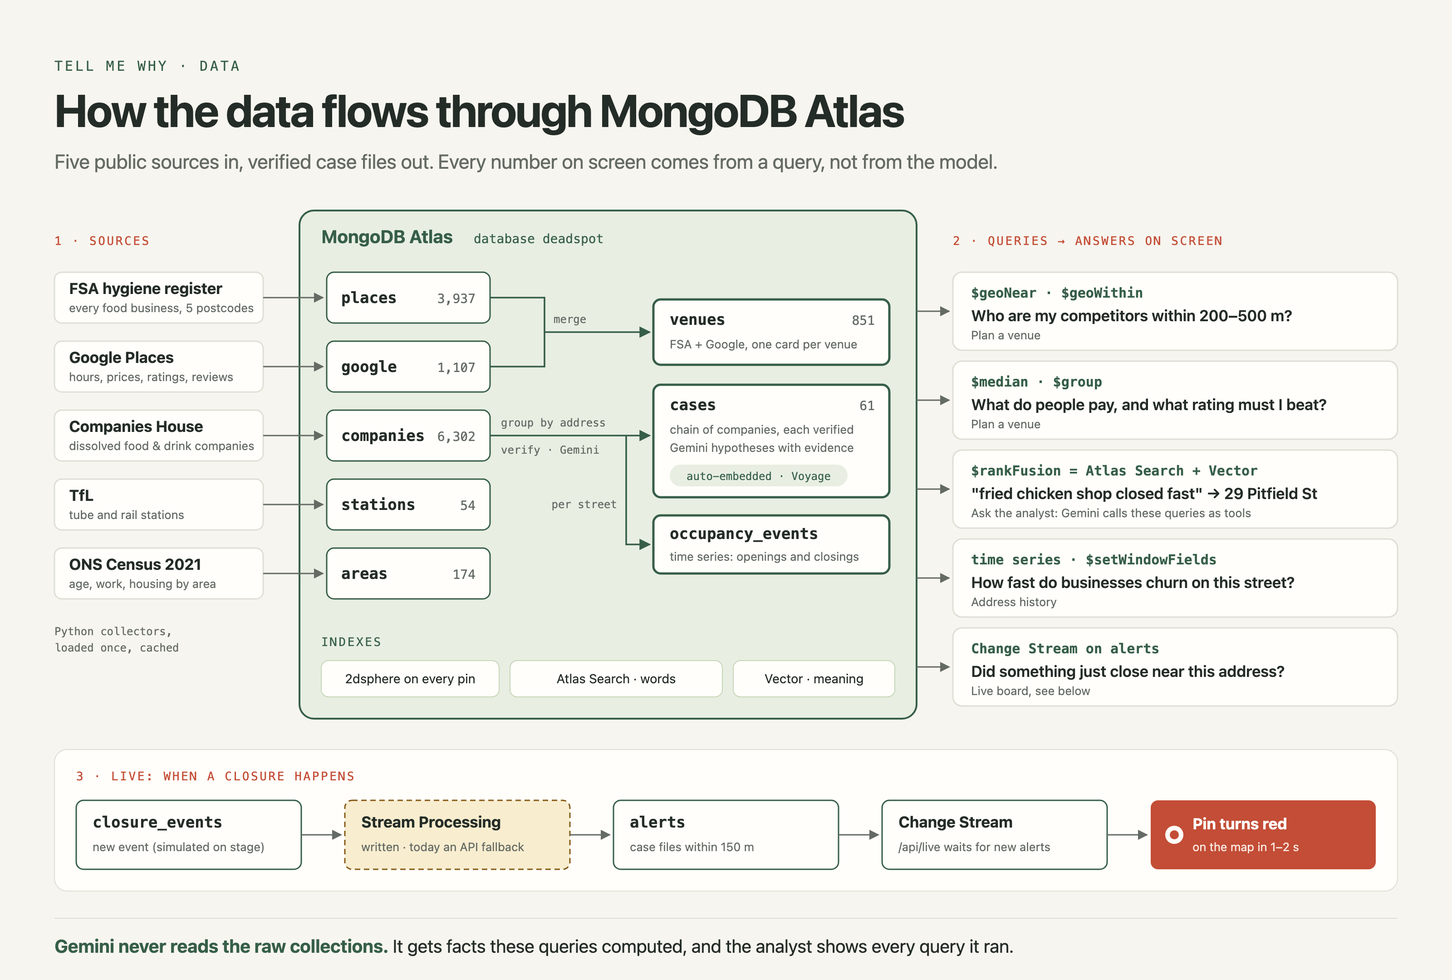
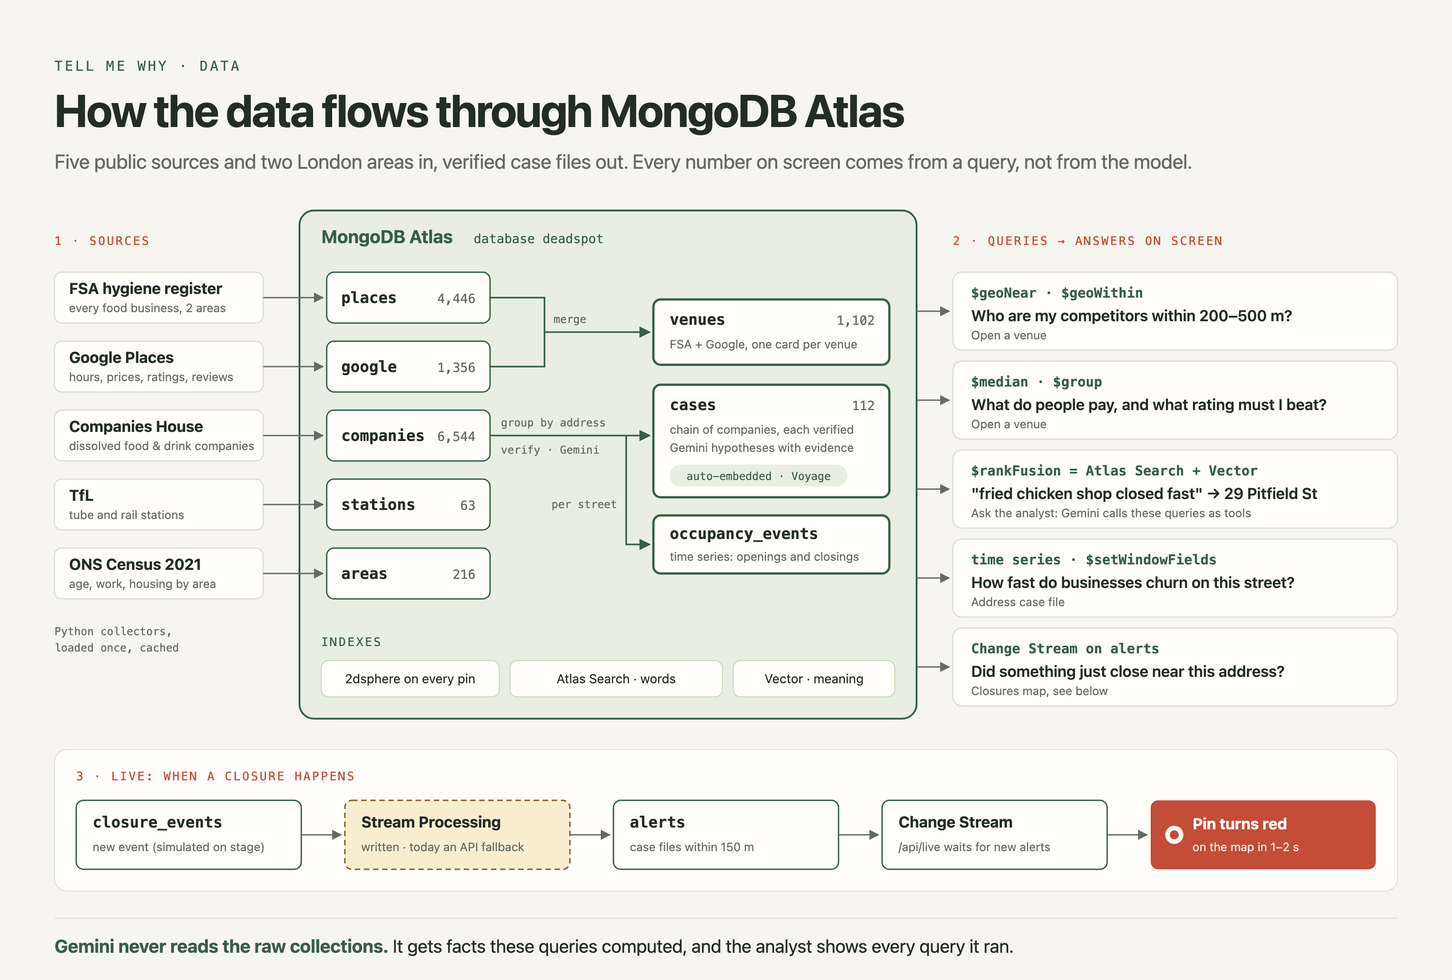
README: judges block, live screenshots, numbers for both areas
Align counts with Atlas and the snapshot (112 case files, 146 companies,
1,102 venues), one name per screen, fix the screen list and API notes.

diff --git a/README.md b/README.md
@@ -1,16 +1,30 @@
 # 🔎 Tell Me WHY — who failed here before you, and why?
 
-**Before you sign a 10-year lease, see every business that closed at this address, checked twice, with the reasons as evidence-backed hypotheses.
-Before you take the shift, check whether the company behind the venue is still alive.
-Code finds every fact. Gemini explains them. A second check makes sure a "closure" isn't just a new company behind the same restaurant.**
+**Before you sign the lease or take the shift, see who failed here before you, and why.**
+
+Every business that closed at an address, checked twice, with the reasons as evidence-backed hypotheses. Every company behind a venue, and whether it is still alive. Code finds every fact, Gemini explains them, and a second check makes sure a "closure" isn't just a new company behind the same restaurant.
 
 [![License: MIT](https://img.shields.io/badge/License-MIT-green.svg)](LICENSE)
 · Built for **Encode London Hackathon 2026** — track: **The Real World**
 · **MongoDB Atlas** + **Google Gemini** (`gemini-4-argon`)
 
-> 🎬 **Demo video (3 min):** ⏳ the link goes here before submission
+<!-- 🎬 Demo video (3 min): add the link here before submission -->
 > 🌐 **Live app:** https://tell-me-why-henna.vercel.app
 > 🖼 **Screens:** [what you see](#what-you-see)
+
+## For judges: 60 seconds
+
+| Try it live | What you'll see |
+|---|---|
+| [**Open a venue:** a coffee shop on Pitfield Street](https://tell-me-why-henna.vercel.app/plan.html?concept=coffee&q=Pitfield%20Street) | direct competitors, what they charge, the rating bar to beat, closures nearby (`$geoNear`, `$median`) |
+| [**Case file:** 14 Rivington St](https://tell-me-why-henna.vercel.app/case.html?id=14-rivington-st-EC2A3DU) | two restaurants in a row, each closure checked against Google; Gemini's hypotheses with evidence and a counter-argument |
+| [**Ask the analyst:** "fried chicken closed fast near Old Street"](https://tell-me-why-henna.vercel.app/ask.html?q=Which%20fried%20chicken%20places%20closed%20fast%20near%20Old%20Street%2C%20and%20why%20might%20that%20be%3F) | Gemini picks MongoDB tools itself and lists every query it ran: Hybrid Search (`$rankFusion`), `$geoNear`. Takes ~15 s |
+| [**Take a job:** Schnitzel Heaven](https://tell-me-why-henna.vercel.app/employer.html?q=Schnitzel%20Heaven) | the company behind it was dissolved while the venue still trades: amber, not red |
+
+- **Impact.** First-time hospitality owners and staff carry the cost of a bad lease or an unpaid shift; both happened to me. Chains pay consultants for what this shows from public records.
+- **Technical execution.** 112 case files and 1,102 venues across two London areas, from five public sources, in MongoDB Atlas. 7 Atlas features live — [see the table](#how-we-use-mongodb-atlas).
+- **Innovation.** Verify, then explain: a dissolved company counts as a closure only after Google and the FSA are checked. Gemini writes hypotheses, never facts, each with a counter-argument.
+- **Usability.** One address, one screen, mobile first. A QR code in the room opens *Near you* with no typing.
 
 ---
 
@@ -55,7 +69,7 @@ The restaurant kept trading. The owners simply moved it to **a new company** and
 - Around it: 85 venues on Google within 150 m, neighbours' median rating 4.5, Old Street station 380 m
 - Gemini's headline: *"Two consecutive well-rated Asian dining concepts closed at 14 Rivington St within 22–42 months amid fierce local competition."* Every hypothesis cites the numbers above and comes with a counter-argument.
 
-**A real employer check — Schnitzel Heaven, 57 Pitfield St:** 🟡 *needs verification* — three companies at the address; the latest one was dissolved in Sept 2026 while the venue still trades (FSA + Google). For staff: ask who your employer is on paper.
+**A real employer check — Schnitzel Heaven, 57 Pitfield St:** 🟡 *needs verification* — three food companies registered at the address since 2019 (two of them look like venues); the latest one was dissolved in Sept 2026 while the venue still trades (FSA + Google). For staff: ask who your employer is on paper.
 
 ---
 
@@ -63,14 +77,20 @@ The restaurant kept trading. The owners simply moved it to **a new company** and
 
 Eight screens, light and calm, built mobile-first (people open it from a QR code in the room):
 
+| **Open a venue** — a coffee shop on Pitfield Street | **Address case file** — 14 Rivington St |
+|---|---|
+| [![Open a venue: 5 coffee shops within 300 m, typical price £10–£20, a 4.8 median rating to clear, and the competitors on a map](docs/screens/open.png)](https://tell-me-why-henna.vercel.app/plan.html?concept=coffee&q=Pitfield%20Street) | [![Case file for 14 Rivington St: closure confirmed, the most likely reason and the case against it, questions for the landlord, and the companies at the address](docs/screens/case.png)](https://tell-me-why-henna.vercel.app/case.html?id=14-rivington-st-EC2A3DU) |
+| **Ask the analyst** — every query it ran is listed | **Take a job** — Schnitzel Heaven |
+| [![Ask the analyst: Gemini's answer about fried chicken places near Old Street, citing case files, with the list of MongoDB searches it ran](docs/screens/ask.png)](https://tell-me-why-henna.vercel.app/ask.html?q=Which%20fried%20chicken%20places%20closed%20fast%20near%20Old%20Street%2C%20and%20why%20might%20that%20be%3F) | [![Employer check for Schnitzel Heaven: the company behind it was dissolved in Sept 2026 while the venue still trades, marked needs verification](docs/screens/employer.png)](https://tell-me-why-henna.vercel.app/employer.html?q=Schnitzel%20Heaven) |
+
 1. **Home** — *"Before you sign, know the story."* One search box, two modes: *I'm opening a venue* / *I'm taking a job*.
-2. **Open a venue** — pick a concept (coffee shop, bakery, restaurant, takeaway, bar) and a street, address or postcode. You get **how many direct competitors** are within 200–500 m, **how high the competition is** compared with the rest of the neighbourhood, the **typical price per person**, the rating and hygiene bar to clear, who eats around there, and the address histories nearby. With no concept chosen, it shows what trades around the place.
-3. **Address history** — *In short* first: the venue today, the most likely reason and the case against it, questions for the landlord. Then the companies at the address, each verified; possible reasons with evidence and counter-arguments; and, folded away, *Will the space work for your concept?*, the street by the hour and the street over the years.
+2. **Open a venue** — pick a concept (coffee shop, bakery, restaurant, takeaway, bar) and a street, address or postcode. You get **how many direct competitors** are within 200–500 m, **how high the competition is** compared with the rest of the neighbourhood, the **typical price per person**, the rating and hygiene bar to clear, who eats around there, and the case files nearby. With no concept chosen, it shows what trades around the place.
+3. **Address case file** — *In short* first: the venue today, the most likely reason and the case against it, questions for the landlord. Then the companies at the address, each verified; possible reasons with evidence and counter-arguments; and, folded away, *Will the space work for your concept?*, the street by the hour and the street over the years.
 4. **Take a job** — pick a trading venue on the map (or *Near me*, or by name). If the company behind it was dissolved while the venue trades on, a plain fact card says so; then what the shifts may look like, four questions to ask, and where to get help (Acas, Redundancy Payments Service, HMRC, Citizens Advice).
-5. **Closures map** — every address history on the map, filtered by *Closure confirmed · Likely closure · Unverified · New company, same venue*.
+5. **Closures map** — every case file on the map, for Shoreditch & Hoxton or Richmond & St Margarets, filtered by *Closure confirmed · Likely closure · Unverified · New company, same venue*.
 6. **Ask the analyst** — a question in plain words; Gemini answers with MongoDB tools and shows every query.
-8. **Venue report** (`venue.html`) — one page per café, restaurant or bar (851): Google rating and reviews, FSA hygiene, price, what guests praise and criticise (Gemini, every quote checked), who comes, opening hours and what it offers, its direct competitors within 300 m on a map and in a table, the neighbourhood mix, the street by the hour and over the years, and what closed nearby.
-7. **Near you** (`here.html`, the QR code in the room) — no typing: the address histories within a short walk of Encode Hub.
+7. **Venue report** (`venue.html`) — one page per café, restaurant or bar (1,102): Google rating and reviews, FSA hygiene, price, what guests praise and criticise (Gemini, every quote checked), who comes, opening hours and what it offers, its direct competitors within 300 m on a map and in a table, the neighbourhood mix, the street by the hour and over the years, and what closed nearby.
+8. **Near you** (`here.html`, the QR code in the room) — no typing: the case files within a short walk of Encode Hub.
 
 **"Will the space work for your concept?"** A previous restaurant is not proof that yours is allowed. The case file separates three checks — **lawful use class** (old A-classes vs. today's Class E), **installed extraction**, and **suitability for your equipment** — and changes the questions for a coffee shop, a bakery with on-site baking or a hot kitchen. Each stays *Not verified / Assessment needed* until documents exist; official guidance (GOV.UK, Planning Portal, HSE, Hackney) is linked.
 
@@ -86,7 +106,7 @@ Eight screens, light and calm, built mobile-first (people open it from a QR code
 3. **Verify every company** (`scripts/verify_closures.py`) — see below.
 4. **Compute context in code:** nearest station, venues within 150 m, share of neighbours open after 21:00 and on Sundays, neighbours' median Google and hygiene ratings.
 5. **Gemini writes hypotheses** over those facts only, as strict JSON: headline, 2–3 hypotheses (each with evidence, confidence and a counter-argument), the chain pattern, and a caveat.
-6. **The app** reads a snapshot (`app/data/`), so the demo never waits on a network call. Vercel functions serve the same data as an API.
+6. **The app** reads case files from a snapshot (`app/data/`), so pages open without waiting on the database. Live questions go to Atlas through Vercel functions: competitors and venue reports (`/api/venue`), *Ask the analyst* (`/api/ask`) and the live closure (`/api/demo-closure`, `/api/live`).
 
 ![Architecture: Python scripts build everything once into MongoDB Atlas with Gemini; Vercel serves the pages, live Atlas functions and a snapshot](docs/diagrams/architecture.png)
 
@@ -100,14 +120,17 @@ So **every company in every chain is checked against the real world before it co
 1. Is a venue with the same name trading **within 45 m** right now? (FSA + Google in our database)
 2. If not, ask **Google Places** by name near the address: is it `CLOSED_PERMANENTLY`, `CLOSED_TEMPORARILY` or `OPERATIONAL`? (results cached, so re-running costs nothing; `--refresh` re-checks)
 
-| Verdict | Meaning | Companies (of 83) |
-|---|---|---|
-| `closed_google` | closure **confirmed** by Google | 4 |
-| `operating_now` | **same venue still trading** — company changed, not a closure | 9 |
-| `no_trace` | name looks like a venue, no trace anywhere — probably closed | 19 |
-| `unclear` | no trace and the name doesn't say what it was — **not counted** as a closure | 51 |
+We check the 146 companies registered at the 112 case-file addresses. Most of the 6,544 dissolved food & drink companies we loaded sit elsewhere, often at accountants' and registered-office addresses.
 
-Each address then gets a label that describes its history, not the venue today: **Closure confirmed** (3) · **Likely closure** (18) · **Unverified closure** (34) · **New company, same venue** (6). The venue's status today is shown separately.
+| Verdict | Meaning | Shoreditch | Richmond | Total |
+|---|---|---|---|---|
+| `closed_google` | closure **confirmed** by Google | 4 | 0 | 4 |
+| `operating_now` | **same venue still trading** — company changed, not a closure | 9 | 10 | 19 |
+| `no_trace` | name looks like a venue, no trace anywhere — probably closed | 19 | 14 | 33 |
+| `unclear` | no trace and the name doesn't say what it was — **not counted** as a closure | 51 | 39 | 90 |
+| | | **83** | **63** | **146** |
+
+Each address then gets a label that describes its history, not the venue today: **Closure confirmed** (3) · **Likely closure** (31) · **Unverified** (67) · **New company, same venue** (11). The venue's status today is shown separately.
 The same verdict means different things to different people: for a tenant, `operating_now` is good news (the place survives); for a worker, it is a red flag (the employer company is gone while the venue trades on).
 
 ---
@@ -117,13 +140,13 @@ The same verdict means different things to different people: for a tenant, `oper
 | | |
 |---|---|
 | **Model** | `gemini-4-argon` via the Gemini API |
-| **Mode** | structured output: `responseMimeType: application/json` + `responseSchema`, temperature 0.3 |
-| **Task** | turn a fact sheet about one address into a case file: headline, hypotheses with evidence / confidence / counter-argument, chain pattern, caveat |
-| **Where in the code** | `scripts/gen_reasons.py` → `gemini()`, `PROMPT`, `SCHEMA` |
+| **1 · Case files** | turns a fact sheet about one address into a case file: headline, hypotheses with evidence / confidence / counter-argument, chain pattern, caveat. Structured output (`responseMimeType: application/json` + `responseSchema`), temperature 0.3 — `scripts/gen_reasons.py` |
+| **2 · Guests' own words** | reads reviews and returns quotes for each customer segment and what guests praise or criticise; every quote is checked word for word by code. Structured output, temperature 0.1 — `scripts/gen_audience.py`, `scripts/gen_review_themes.py` |
+| **3 · Ask the analyst** | a live agent: function calling over three MongoDB tools, it decides what to look up and cites case files. Temperature 0.2 — `api/ask.js` |
 
 ### One card per venue: FSA and Google merged
 
-The hygiene register and Google Places describe the same places under different names (*YAYACAS* vs *YAYACAS Authentic Greek Restaurant*). `scripts/build_venues.py` merges them by similar name within 60 m (274 venues), searches Google by name for FSA venues without a match (47 found) and asks the free FSA API about Google-only venues (116 found). Result: 851 food & drink venues around Encode Hub, 409 with both a Google rating and an FSA hygiene score; the rest say honestly what is missing. Each venue gets a concept from its **primary** Google category, FSA type and name — a cinema with a café counter is not a coffee shop.
+The hygiene register and Google Places describe the same places under different names (*YAYACAS* vs *YAYACAS Authentic Greek Restaurant*). In Shoreditch & Hoxton, `scripts/build_venues.py` merges them by similar name within 60 m (274 venues), searches Google by name for FSA venues without a match (47 found) and asks the free FSA API about Google-only venues (116 found). Result: 851 food & drink venues around Encode Hub, 409 with both a Google rating and an FSA hygiene score; the rest say honestly what is missing. With Richmond & St Margarets, 1,102 venues. Each venue gets a concept from its **primary** Google category, FSA type and name — a cinema with a café counter is not a coffee shop.
 
 ### Day or evening, and how many people? Open data instead of paid footfall
 
@@ -135,7 +158,7 @@ Many first-time owners learn too late that the street empties after 18:00 — an
 
 ### Who are the customers? Code first, quotes checked
 
-Each of 1,107 venues gets up to three customer segments (office workers, evening crowd, families, regulars, visitors, remote workers, students) as a **hypothesis with confidence**:
+Each of the 1,107 Google venues in Shoreditch & Hoxton gets up to three customer segments (office workers, evening crowd, families, regulars, visitors, remote workers, students) as a **hypothesis with confidence**:
 - **Code** reads opening hours (closed at weekends → office trade; open past 23:00 → evening crowd), Google attributes (good for children, weekend brunch, dinner with beer and wine, budget prices) and the ONS Census 2021 area around the venue.
 - **Gemini** reads the reviews and returns guests' own words for each segment (*"…with my team, 14 of us in total"*). **Every quote is checked by code against the review text**; a quote that isn't there word for word is dropped (1,103 kept, 2 rejected).
 - **High confidence only when code and reviews agree.** Weak signals are labelled as such and never called "main".
@@ -158,17 +181,19 @@ Each of 1,107 venues gets up to three customer segments (office workers, evening
 
 ![How the data flows through MongoDB Atlas: five public sources into raw collections, merged into venues, case files and a time series, queried by geo, search, vector and aggregation, with a live Change Stream path](docs/diagrams/mongodb-data-flow.png)
 
-Database `deadspot` on Atlas:
+Database `deadspot` on Atlas, two areas: Shoreditch & Hoxton (around Encode Hub) and Richmond & St Margarets.
 
-| Collection | What | Documents |
-|---|---|---|
-| `places` | FSA food hygiene register (E1, E2, E8, N1, EC2) | 3,937 |
-| `google` | Google Places venues: hours, price range, rating, reviews, customer segments (`audience`) | 1,107 |
-| `companies` | dissolved food & drink companies, Companies House | 6,302 |
-| `stations` | TfL tube and rail stations | 54 |
-| `areas` | ONS Census 2021 by LSOA: age, employment, tenure | 174 |
-| `cases` | case files: chain, verification, context, Gemini analysis | 61 |
-| `venues` | merged FSA + Google venues with concept, ratings, price, hygiene | 851 |
+| Collection | What | Shoreditch | Richmond | Total |
+|---|---|---|---|---|
+| `places` | FSA food hygiene register (E1, E2, E8, N1, EC2 · TW1, TW9, TW10) | 3,937 | 509 | 4,446 |
+| `google` | Google Places venues: hours, price range, rating, reviews, customer segments (`audience`, Shoreditch) | 1,107 | 249 | 1,356 |
+| `companies` | dissolved food & drink companies, Companies House | 6,302 | 242 | 6,544 |
+| `stations` | TfL tube and rail stations | 54 | 9 | 63 |
+| `areas` | ONS Census 2021 by LSOA: age, employment, tenure | 174 | 42 | 216 |
+| `cases` | case files: chain, verification, context, Gemini analysis | 61 | 51 | 112 |
+| `venues` | merged FSA + Google venues with concept, ratings, price, hygiene | 851 | 251 | 1,102 |
+| `occupancy_events` | time series: companies opening and closing, per street | 710 | 164 | 874 |
+| `closure_events`, `alerts` | live closure events and the alerts they raise | | | empty until a closure |
 
 | Atlas feature | Role in the product | Status |
 |---|---|---|
@@ -178,7 +203,7 @@ Database `deadspot` on Atlas:
 | **Hybrid Search** (`$rankFusion`) | *Ask the analyst*: keywords and meaning fused into one ranking, then a geo filter. *"fried chicken shop closed fast"* → **29 Pitfield St** (Taste of Tennessee → Hot Fried Chicken), ranked 1st by both | ✅ live |
 | **Change Streams** | `/api/live` long-polls `alerts`; a new closure turns the nearby pin red on screen | ✅ live |
 | **Time Series + window functions** (`occupancy_events`, `$setWindowFields`) | the street over the years: openings, closings and 3-year churn per street | ✅ live |
-| **Aggregation** (`$median`, `$group`) | competition level, typical price, rating bar for *Plan a venue* and the analyst | ✅ live |
+| **Aggregation** (`$median`, `$group`) | competition level, typical price, rating bar for *Open a venue* and the analyst | ✅ live |
 | **Stream Processing** (`scripts/stream_processor.json`) | closure event → `$lookup` over case files with the distance computed inside the processor (≤ 150 m) → `$merge` into `alerts`, inside Atlas | ⏳ processor written (start: upload the JSON in the workspace's JSON editor, or `scripts/start_stream_processor.js`); until it runs, the API computes the same alerts and labels them `api-fallback` |
 
 ### Ask the analyst: an analyst that shows its queries
@@ -199,8 +224,8 @@ npm run dev
 
 Opens on http://localhost:3000: the screens come from `design/`, the data and shared logic from `app/` (`site.config.js`). `npm run build` assembles the same site into `public/` for Vercel. The API needs `npm install` (MongoDB driver) and the variables in `.env.example`.
 
-**API** (Vercel functions in `api/`, same data as the app):
-`/api/cases` · `/api/cases?level=confirmed` · `/api/case?id=14-rivington-st-EC2A3DU` · `/api/employer-check?q=Schnitzel%20Heaven` · `/api/employer-check?id=57-pitfield-st-N16BU` — contract in [docs/API.md](docs/API.md)
+**API** (Vercel functions in `api/`):
+on Atlas — `/api/venue?id=fsa-1794844` · `/api/ask?q=…` · `/api/live`; on the snapshot — `/api/cases` · `/api/cases?level=confirmed` · `/api/case?id=14-rivington-st-EC2A3DU` · `/api/employer-check?q=Schnitzel%20Heaven` · `/api/employer-check?id=57-pitfield-st-N16BU` — contract in [docs/API.md](docs/API.md)
 
 **Data pipeline** (Python 3, `pip install pymongo`):
 
@@ -227,9 +252,9 @@ Secrets live in local git-ignored files (`*_key.txt`, `atlas_user.txt`, `atlas_p
 
 ## Known limitations
 
-- **Registered office ≠ trading address.** That is why 51 of 83 companies end up `unclear` and are not shown as closures.
-- **Google rarely lists closed places** in search; closures are confirmed only when Google still holds the closed listing (4 so far).
-- **Two areas so far:** Shoreditch & Hoxton (address histories within 400 m and venues within 900 m of Encode Hub) and Richmond & St Margarets (TW1, TW9, TW10). Adding an area is one config entry in `scripts/areas.py` plus the same pipeline. The sources are national, so the method scales; the dataset doesn't yet.
+- **Registered office ≠ trading address.** That is why 90 of 146 companies end up `unclear` and are not shown as closures.
+- **Google rarely lists closed places** in search; closures are confirmed only when Google still holds the closed listing (4 companies at 3 addresses so far).
+- **Two areas so far:** Shoreditch & Hoxton (case files within 400 m and venues within 900 m of Encode Hub) and Richmond & St Margarets (TW1, TW9, TW10). Adding an area is one config entry in `scripts/areas.py` plus the same pipeline. The sources are national, so the method scales; the dataset doesn't yet.
 - **No door-level footfall.** Station counts and neighbours' hours are proxies, not people walking past the unit.
 - **No rent data yet.** The "customers per day you'd need vs. what the street gives" calculation needs VOA rateable values.
 - **Directors and insolvency notices** (Gazette, liquidation status) are not connected yet, so the employer check sees dissolutions, not ongoing liquidations.
@@ -241,13 +266,13 @@ Secrets live in local git-ignored files (`*_key.txt`, `atlas_user.txt`, `atlas_p
 ## Built during the hackathon
 
 ✅ **Done:**
-- **Two areas:** Shoreditch & Hoxton and Richmond & St Margarets — 112 address histories, 1,102 merged venues, one switch on the map.
+- **Two areas:** Shoreditch & Hoxton and Richmond & St Margarets — 112 case files, 1,102 merged venues, one switch on the map.
 - Data for the Encode Hub neighbourhood from five public sources, loaded into MongoDB Atlas.
 - Chains of companies per address and **verification of every company** against Google Places and FSA.
 - Gemini case files with structured output, evidence, confidence and counter-arguments, in English.
 - Geo indexes, Atlas Search, **Vector Search with Automated Embedding**, **Hybrid Search**, Change Streams and a time-series collection — live.
 - Web app: owner board (map, filters, case files) and **employer check** for workers; API for Vercel.
-- *Plan a venue*, a **venue report for each of 851 venues**, *Ask the analyst*, the street by the hour and over the years, customer segments, TfL footfall proxy.
+- *Open a venue*, a **venue report for each of 1,102 venues**, *Ask the analyst*, the street by the hour and over the years, customer segments, TfL footfall proxy.
 - Design: venue ratings (Google, FSA, price) without back-filling history, the **space check** (use class, extraction, equipment) for three concepts, share via link and QR.
 
 🔄 **In progress:**
@@ -256,9 +281,9 @@ Secrets live in local git-ignored files (`*_key.txt`, `atlas_user.txt`, `atlas_p
 ## Repository structure
 
 ```
-design/     the site: pages, styles, plan.js (Plan a venue, Ask the analyst, live alerts), assets
+design/     the site: pages, styles, plan.js (Open a venue, Ask the analyst, venue report, live alerts), assets
 app/        data snapshot (data/) and shared logic (lib/employer.js, also used by the API)
-api/        Vercel functions: ask, live, demo-closure, employer-check, cases, case
+api/        Vercel functions: on Atlas — venue, ask, demo-closure, live; on the snapshot — case, cases, employer-check
 docs/       API contract, front-end components, diagrams
 scripts/    data pipeline: collect → load → build → verify → explain → index
 ```
